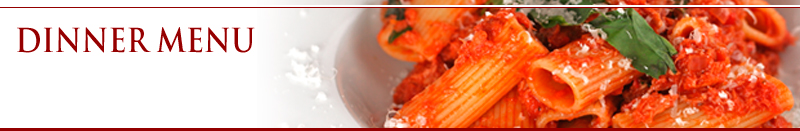
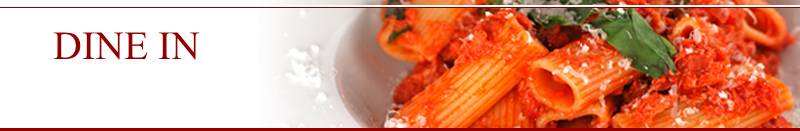
updated dinner menu

Changed region(s): [[0.0, 0.1832, 0.3438, 0.458]]

diff --git a/dpw-menus-dinner.html b/dpw-menus-dinner.html
@@ -9,62 +9,79 @@
 	<link rel="stylesheet" href="media.css" type="text/css">
 
 </head>
-<body onload="MM_preloadImages('images/dimaggios-banner2.gif','images/dimaggios-banner-pw.gif','images/dimaggios-banner-pw-new.gif')">
+<body>
 <table width="950" border="0" align="center" cellpadding="0" cellspacing="0">
-<!-- fwtable fwsrc="Untitled" fwbase="dimaggios-template.gif" fwstyle="Dreamweaver" fwdocid = "1005099785" fwnested="0" -->
-  <tr>
-   <td width="24"><img src="images/spacer.gif" width="24" height="1" border="0" alt="" /></td>
-   <td colspan="7"><img src="images/spacer.gif" width="901" height="1" border="0" alt="" /></td>
-   <td width="25"><img src="images/spacer.gif" width="25" height="1" border="0" alt="" /></td>
-   <td width="1"><img src="images/spacer.gif" width="1" height="1" border="0" alt="" /></td>
+<!-- Image header -->
+<!-- <div>
+  <a href="index.html"> 
+    <img class="cnt-img-header" src="images/dimaggios-banner-pw-new.gif" alt="banner" name="banner" width="901" height="156" border="0" id="banner" />
+  </a>
+</div> -->
+
+<tr>
+  <td width="24"><img src="images/spacer.gif" width="24" height="1" border="0" alt="" /></td>
+  <td colspan="7"><img src="images/spacer.gif" width="901" height="1" border="0" alt="" /></td>
+  <td width="25"><img src="images/spacer.gif" width="25" height="1" border="0" alt="" /></td>
+  <td width="1"><img src="images/spacer.gif" width="1" height="1" border="0" alt="" /></td>
+   </tr>
+ 
+   <tr>
+    <td rowspan="5" valign="top"><p style="margin:0px"></p></td>
+    <td colspan="7"><a href="index.html">
+      <img class="cnt-img-header" src="images/dimaggios-banner-pw-new.gif" alt="dimaggios-banner" name="dimaggios-banner" width="901" height="156" border="0" id="dimaggios-banner" /></a><a href="dpw-home.html" onmouseout="MM_swapImgRestore()" onmouseover="MM_swapImage('dimaggios','','images/dimaggios-banner-pw.gif',1)"></a><a href="index.html" onmouseout="MM_swapImgRestore()" onmouseover="MM_swapImage('dimaggios-banner','','images/dimaggios-banner2.gif',1)"></a></td>
+    <td rowspan="5" valign="top"><p style="margin:0px"></p></td>
+    <td rowspan="3"><img src="images/spacer.gif" width="1" height="156" border="0" alt="" /></td>
+   </tr>
+
+  <tr class="nav">
+    <td height="45" align="center" valign="middle" bgcolor="#910100">
+      <span>
+        <a href="dpw-about-us.html">About Us</a>
+      </span>
+      <td height="45" align="center" valign="middle" bgcolor="#910100" class="nav-link">
+        <span class="dropdown">
+          <a href="dpw-menus.html" class="menus-link">Menus</a>
+          <!-- <i class="fa fa-caret-down fa-hide"></i> -->
+          <div class="mobile-menu-link">Menus <i class="fa fa-caret-down"></i></div>
+     
+          <div class="dropdown-content" bgcolor="#910100">
+            <a href="dpw-blackboard-menus.html">Blackboard</a>
+            <a href="dpw-menus-take_out.html">Take Out</a>
+            <a href="dpw-menus-lunch.html">Lunch</a>
+            <a href="dpw-menus-dinner.html">Dinner</a>
+            <a href="dpw-desserts.html">Desserts</a>
+            <a href="dpw-menus-wine_list.html">Wine List</a>
+            <a href="dpw-catering.html">Catering</a>
+          </div>
+        </span>
+      </td>
+    </td>
+    <td height="45" align="center" valign="middle" bgcolor="#910100">
+      <span>
+        <a href="dpw-happenings.html">Happenings</a>
+      </span>
+    </td>
+    <td height="45" align="center" valign="middle" bgcolor="#910100">
+      <span>
+        <a href="dpw-catering-parties.html">Catering / Parties</a>
+      </span>
+    </td>
+    <td height="45" align="center" valign="middle" bgcolor="#910100">
+      <span>
+        <a href="dpw-photos.html">Photos</a>
+      </span>
+    </td>
+    <td height="45" align="center" valign="middle" bgcolor="#910100">
+      <span>
+        <a href="dpw-news-reviews.html">News / Reviews</a>
+      </span>
+    </td>
+    <td height="45" align="center" valign="middle" bgcolor="#910100">
+      <span>
+        <a href="dpw-visit-us.html">Visit Us</a>
+      </span>
+    </td>
   </tr>
-
-	<tr>
-	 <td rowspan="5" valign="top"><p style="margin:0px"></p></td>
-	 <td colspan="7"><a href="index.html" onmouseout="MM_swapImgRestore()" onmouseover="MM_swapImage('dimaggios-banner','','images/dimaggios-banner-st-new.gif',1)">
-		 <img class="cnt-img-header" src="images/dimaggios-banner-pw-new.gif" alt="dimaggios-banner" name="dimaggios-banner" width="901" height="156" border="0" id="dimaggios-banner" /></a><a href="dpw-home.html" onmouseout="MM_swapImgRestore()" onmouseover="MM_swapImage('dimaggios','','images/dimaggios-banner-pw.gif',1)"></a><a href="index.html" onmouseout="MM_swapImgRestore()" onmouseover="MM_swapImage('dimaggios-banner','','images/dimaggios-banner2.gif',1)"></a></td>
-	 <td rowspan="5" valign="top"><p style="margin:0px"></p></td>
-	 <td rowspan="3"><img src="images/spacer.gif" width="1" height="156" border="0" alt="" /></td>
-	</tr>
-
-
-	<tr class="nav">
-		<td width="116" height="45" align="center" valign="middle" bgcolor="#910100">
-			<span>
-				<a href="dpw-about-us.html">About Us</a>
-			</span>
-		</td>
-		<td width="107" height="45" align="center" valign="middle" bgcolor="#910100">
-			<span>
-				<a href="dpw-menus.html">Menus</a>
-			</span>
-		</td>
-		<td width="136" height="45" align="center" valign="middle" bgcolor="#910100">
-			<span>
-				<a href="dpw-happenings.html">Happenings</a>
-			</span>
-		</td>
-		<td width="157" height="45" align="center" valign="middle" bgcolor="#910100">
-			<span>
-				<a href="dpw-catering-parties.html">Catering / Parties</a>
-			</span>
-		</td>
-		<td width="113" height="45" align="center" valign="middle" bgcolor="#910100">
-			<span>
-				<a href="dpw-photos.html">Photos</a>
-			</span>
-		</td>
-		<td width="145" height="45" align="center" valign="middle" bgcolor="#910100">
-			<span>
-				<a href="dpw-news-reviews.html">News / Reviews</a>
-			</span>
-		</td>
-		<td width="127" height="45" align="center" valign="middle" bgcolor="#910100">
-			<span>
-				<a href="dpw-visit-us.html">Visit Us</a>
-			</span>
-		</td>
-	</tr>
 
   <tr>
     <td colspan="7" rowspan="3" valign="top" bgcolor="#FFFFFF">
@@ -634,6 +651,7 @@
   <tr>
    <td><img src="images/spacer.gif" width="1" height="301" border="0" alt="" /></td>
   </tr>
+
   <tr>
 
    <td valign="top"><p style="margin:0px"></p></td>
@@ -680,11 +698,13 @@
  		 </tr>
  	 </table>
 
-     <p style="margin:0px"></p></td>
+     <p style="margin:0px"></p>
+    </td>
    <td valign="top"><p style="margin:0px"></p></td>
    <td><img src="images/spacer.gif" width="1" height="56" border="0" alt="" /></td>
-
+  
   </tr>
+
 </table>
 </body>
 </html>
